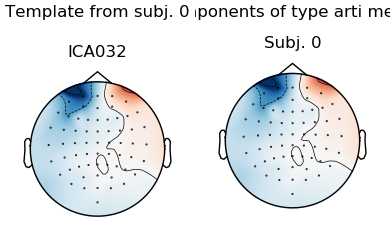
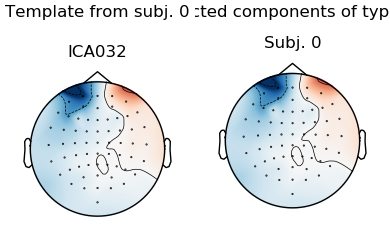
Lots of changes

Changed region(s): [[0.4923, 0.0, 1.0, 0.0894]]

diff --git a/pirate.py b/pirate.py
@@ -11,6 +11,9 @@ from mne.channels import make_standard_montage
 from mne.preprocessing import ICA, corrmap, read_ica
 import os
 from mne.time_frequency import psd_multitaper, psd_welch
+from mne.epochs import make_fixed_length_epochs
+from mne import create_info
+from mne import find_events, EpochsArray
 
 class Pirates:
     """
@@ -416,6 +419,7 @@ class Pirates:
                 icas.append(ica)
         return icas
 
+
     @staticmethod
     def discrepancy(raws,clean_raws,dir_discrepancy):
         for raw,c_raw in zip(list(raws),list(clean_raws)):
@@ -437,24 +441,28 @@ class Pirates:
         for ica, subj in zip(icas, raws):
             img_paths = list()
             lab = ica.labels_[label]
+            inst = make_fixed_length_epochs(subj.copy(), duration=2., verbose=False, preload=True)
+            data = ica.get_sources(inst).get_data()  # prendo l'array delle componenti
+            ica_names = ica._ica_names  # mi prendo la lista di nomi di icas da usare al posto dei canali
+            info2 = subj.info  # mi copio le info dai dati raw, da questi mi servirà solo ['chs']
+            chs = info2['chs']
+            info3 = create_info(sfreq=160, ch_names=ica_names, ch_types='eeg')
+            comp_epocate = EpochsArray(data, info3)  # creo un EpochsArray con le epoche calcolate prima(data) e
+            # la info structure creata prima
             for n in n_comp:
+                psd = comp_epocate.plot_psd(dB=False, area_mode=None, average=False, ax=plt.axes(yticks=([]), title="Sub"),
+                                        fmin=1.0, fmax=80.0, picks=n, spatial_colors=False, show=False)
                 if n in lab:
-                    ax1 = ica.plot_components(picks=n, title="Excluded by corr_ma")
+                    ax1 = ica.plot_components(picks=n, title="Exclu by corr_ma")
                 else:
                     ax1 = ica.plot_components(picks=n, title="")
-
                 path_comp = os.path.join(dir_topo_psd, "TOPO" + subj.__repr__()[10:14] + "C" + str(n) + ".png")
                 ax1.savefig(path_comp)
                 plt.close(ax1)
-                sources = ica.get_sources(subj)
-                psds, freqs = psd_welch(sources, picks=[n])
-                # psds = 10 * np.log10(psds)
-                psds_mean = psds.mean(0)
-                plt.figure(figsize=(2.5, 2))
-                plt.plot(freqs, psds_mean)
                 path_psd = os.path.join(dir_topo_psd, "PSD" + subj.__repr__()[10:14] + "C" + str(n) + ".png")
-                plt.savefig(path_psd)
-                plt.close("all")
+                psd.set_size_inches(3, 2.5)
+                psd.savefig(path_psd)
+                plt.close(psd)
                 psd = Image.open(path_comp)
                 topo = Image.open(path_psd)
                 imgs = [psd, topo]
@@ -474,7 +482,6 @@ class Pirates:
                 paths_to_delete.append(path_psd)
                 plt.close('all')
             subjs.append(img_paths)
-
         for indi, l in enumerate(subjs):
             imgs = [Image.open(x) for x in l]
             width, height = imgs[0].size
@@ -498,6 +505,30 @@ class Pirates:
                 os.remove(p)
         for y in paths_to_delete:
             os.remove(y)
+
+    @staticmethod
+    def get_ica_psd(raws, icas, dir_icas_psd=None, return_figure=False):
+        psdl = list()
+        for raw, ica in zip(raws, icas):
+            inst = make_fixed_length_epochs(raw.copy(), duration=2., verbose=False, preload=True)
+            data = ica.get_sources(inst).get_data()  # prendo l'array delle componenti
+            ica_names = ica._ica_names  # mi prendo la lista di nomi di icas da usare al posto dei canali
+            info2 = raw.info  # mi copio le info dai dati raw, da questi mi servirà solo ['chs']
+            chs = info2['chs']
+            info3 = create_info(sfreq=160, ch_names=ica_names, ch_types='eeg')
+            comp_epocate = EpochsArray(data, info3)  # creo un EpochsArray con le epoche calcolate prima(data) e
+            # la info structure creata prima
+            psd = comp_epocate.plot_psd(dB=False, area_mode=None, average=False, ax=plt.axes(yticks=([]), title="Sub"),
+                                        fmin=1.0, fmax=80.0,
+                                        picks="all", spatial_colors=False, show=False)
+            psdl.append(psd)
+
+            if dir_icas_psd is not None:
+                psd.savefig(os.path.join(dir_icas_psd, "ICA-psd" + raw.__repr__()[10:14] + ".png"))
+            plt.close(psd)
+            
+        if return_figure:
+            return psdl
 
 
 

diff --git a/preprocessing/test.py b/preprocessing/test.py
@@ -22,6 +22,7 @@ raws_clean = Pirates.del_annotations(raws_filtered)  # Elimino annotazioni
 Pirates.plot_pre_psd(raws_clean, dir_pre_psd, overwrite=True)
 #icas = Pirates.ica_function(raws_clean, dir_icas, save=True)  # Applico una ica
 icas = Pirates.load_saved_icas(dir_icas)
+list_psd = Pirates.get_ica_psd(raws_clean,icas, dir_icas)
 
 eye = [5,0, 32]
 other = [1,2]
@@ -33,64 +34,14 @@ comp_template = eye + other + mov + nb
 corr = Pirates.corr_map(icas, 0, comp_template, dir_templates, "arti", threshold=0.85)
 Pirates.psd_topo_map(icas, raws_clean, "arti", dir_psd_topo_map)
 
+
 #reco_raws = Pirates.reconstruct_raws(icas, raws_clean, "artifact")
 #Pirates.plot_post_psd(reco_raws, dir_post_psd, overwrite=True)
 
 #Pirates.discrepancy(raws_clean,reco_raws,dir_dis)
 #Pirates.create_report_psd(dir_pre_psd, dir_post_psd, dir_dis, dir_report)
 
-from PIL import Image, ImageDraw, ImageFont
-from mne.time_frequency import psd_multitaper, psd_welch
-
-
-
-
 #%%
-
-sources = icas[1].get_sources(raws_clean[1])
-data = sources.get_data(picks=34)
-psds, freqs = plt.psd(data[0], Fs=160)
-plt.close("all")
-plt.plot(freqs,psds)
-
-log_psds = np.sqrt(freqs)
-plt.close("all")
-#dio_aiutaci.reverse()
-a = psds**2/np.sqrt(freqs)
-plt.plot(freqs,a)
-
-
-
-sources = icas[0].get_sources(raws_clean[0])
-data = sources.get_data(picks=34)
-p = []
-f = []
-for comp in n_comp:
-    data = sources.get_data(picks=comp)
-    psds, freqs = plt.psd(data[0], Fs=160, NFFT=160, noverlap=0.6)
-    p.append(psds)
-    f.append(freqs)
-plt.close("all")
-
-for a,b in zip(f,p):
-    #plt.ylim(0, 0.3)
-    plt.plot(a,b)
-
-
-
-
-
-
-
-
-
-
-
-
-
-
-
-
 
 
 

diff --git a/preprocessing/example/Smulti_psd_ica_components.py b/preprocessing/example/Smulti_psd_ica_components.py
@@ -7,12 +7,12 @@ cwd = os.getcwd()
 preprocessing = os.path.join(cwd, "preprocessing")
 imagined = os.path.join(preprocessing, "imagined")
 
-dir_dis, dir_psd, dir_pre_psd, dir_post_psd, dir_icas, dir_report, dir_templates = Pirates.setup_folders(imagined)  # setuppo le cartelle
+#dir_dis, dir_psd, dir_pre_psd, dir_post_psd, dir_icas, dir_report, dir_templates = Pirates.setup_folders(imagined)  # setuppo le cartelle
 
 chort = np.arange(2, 35).tolist()
 temp = [1]
 #sub = temp + chort
-sub = [52]
+sub = [0]
 
 
 
@@ -66,7 +66,8 @@ info2 = raws_clean[0].info #mi copio le info dai dati raw, da questi mi servirà
  'kind': 2 (FIFFV_EEG_CH),
  'loc': array([-0.07563298,  0.04304355,  0.06791385,  0.        ,  0.        ,
          0.        ,  0.        ,  0.        ,  0.        ,  0.        ,
-         0.        ,  0.        ])} '''
+         0.        ,  0.        ])} 
+'''
 
 # per accedere a chs però non si accede tramite info.chs
 #bisogna fare i procedimenti di cui sotto
